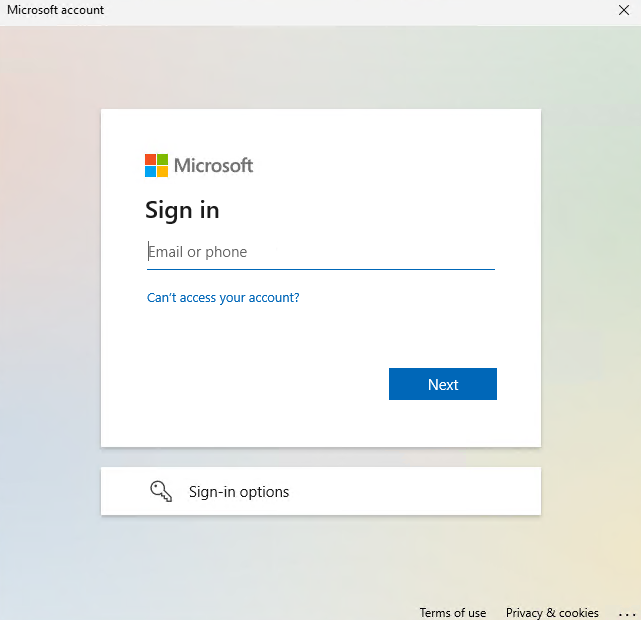
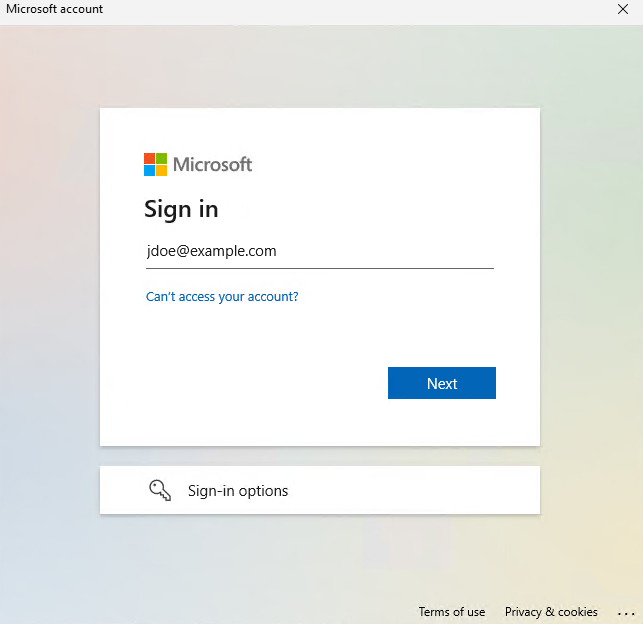
Update Entra ID

diff --git a/_posts/2025-03-02-windows-login-entra-id.md b/_posts/2025-03-02-windows-login-entra-id.md
@@ -1,20 +1,20 @@
 ---
 title: How to Log Into Windows Using Microsoft Entra ID
 date: 2025-03-02
-last_modified_at: 2025-03-02
+last_modified_at: 2025-03-03
 tags: microsoft, windows, entra 
-excerpt: Easily log into your Windows device with your Entra ID credentials and take advantage of features like Single Sign-On, MFA, and more.
+excerpt: User your Entra ID to log into Windows and take advantage of features like Single Sign-On, MFA, and more.
 ---
 
 # Introduction
 
-Logging into Windows using **Entra ID** is a straightforward process that enhances security while providing seamless access to Windows devices and services. This article will guide you through the steps needed to log into Windows using Entra ID.
+Logging into Windows using Entra ID is a straightforward process that enhances security while providing seamless access to Windows devices and services. This article will guide you through the steps needed to log into Windows using Entra ID.
 
 ---
 
 # What is Entra ID?
 
-**Microsoft Entra ID** is a cloud-based identity management service that allows organizations to manage users, devices, applications, and other resources centrally. Entra ID supports authentication for a variety of services, including Microsoft 365 and Windows, as well as third-party applications.
+Microsoft Entra ID is a cloud-based identity management service that allows organizations to manage users, devices, applications, and other resources centrally. Entra ID supports authentication for a variety of services, including Microsoft 365 and Windows, as well as third-party applications.
 
 The key benefits of Entra ID include:
 
@@ -43,36 +43,51 @@ Before you can log into Windows using Entra ID, your device must be registered w
 Below are the steps required to join your device to Entra ID after Windows setup.
 
 1. Click on the **Start menu**, then select **Settings**.
-   
+
 2. In the Settings window, select **Accounts**.
-    ![example](/assets/images/2025-03-02-windows-login-entra-id-1.png)
+
+![Windows Login Entra ID Image 1](/assets/images/2025-03-02-windows-login-entra-id-1.png)
 
 3. Under the **Accounts** section, click **Access Work or School**. 
-   ![example](/assets/images/2025-03-02-windows-login-entra-id-2.png)
+
+![Windows Login Entra ID Image 2](/assets/images/2025-03-02-windows-login-entra-id-2.png)
 
 4. If you have any work address listed here, disconnect it and restart the computer. Come back to this page, click on **Connect**.
-    ![example](/assets/images/2025-03-02-windows-login-entra-id-3.png)
+
+![Windows Login Entra ID Image 3](/assets/images/2025-03-02-windows-login-entra-id-3.png)
 
 5. Don't sign into your work email yet. Instead, click on "Join this device to Microsoft Entra ID".
-       ![example](/assets/images/2025-03-02-windows-login-entra-id-4.png)
+
+![Windows Login Entra ID Image 4](/assets/images/2025-03-02-windows-login-entra-id-4.png)
 
 6. Follow the on-screen instructions to complete the setup process.
-       ![example](/assets/images/2025-03-02-windows-login-entra-id-5.png)
+
+![Windows Login Entra ID Image 5](/assets/images/2025-03-02-windows-login-entra-id-5.png)
 
 
 Once your device is successfully joined to Entra ID, you are ready to use it for login purposes. 
 
+From the Windows login screen click **Other User** and then enter your Entra ID credentials using the format ```jdoe@example.com```.
+
+---
 
 # Adding Entra ID to local groups
+
 To add an Entra ID account to the local groups on a Windows machine, you can use either PowerShell or the `net` command, as shown below:
 
 ## Option 1: PowerShell
-```Add-LocalGroupMember -Group "Administrators" -Member "AzureAD\JohnDoe"```
+```powershell
+Add-LocalGroupMember -Group "Administrators" -Member "AzureAD\JohnDoe"
+```
 
 ## Option 2: Command Prompt
-```net localgroup Administrators AzureAD\JohnDoe /add```
+```bat
+net localgroup Administrators AzureAD\JohnDoe /add
+```
 
 **Note**: This is the user's display name, which you can find by checking the %USERNAME% environment variable.
+
+---
 
 # Remote Desktop Access
 
